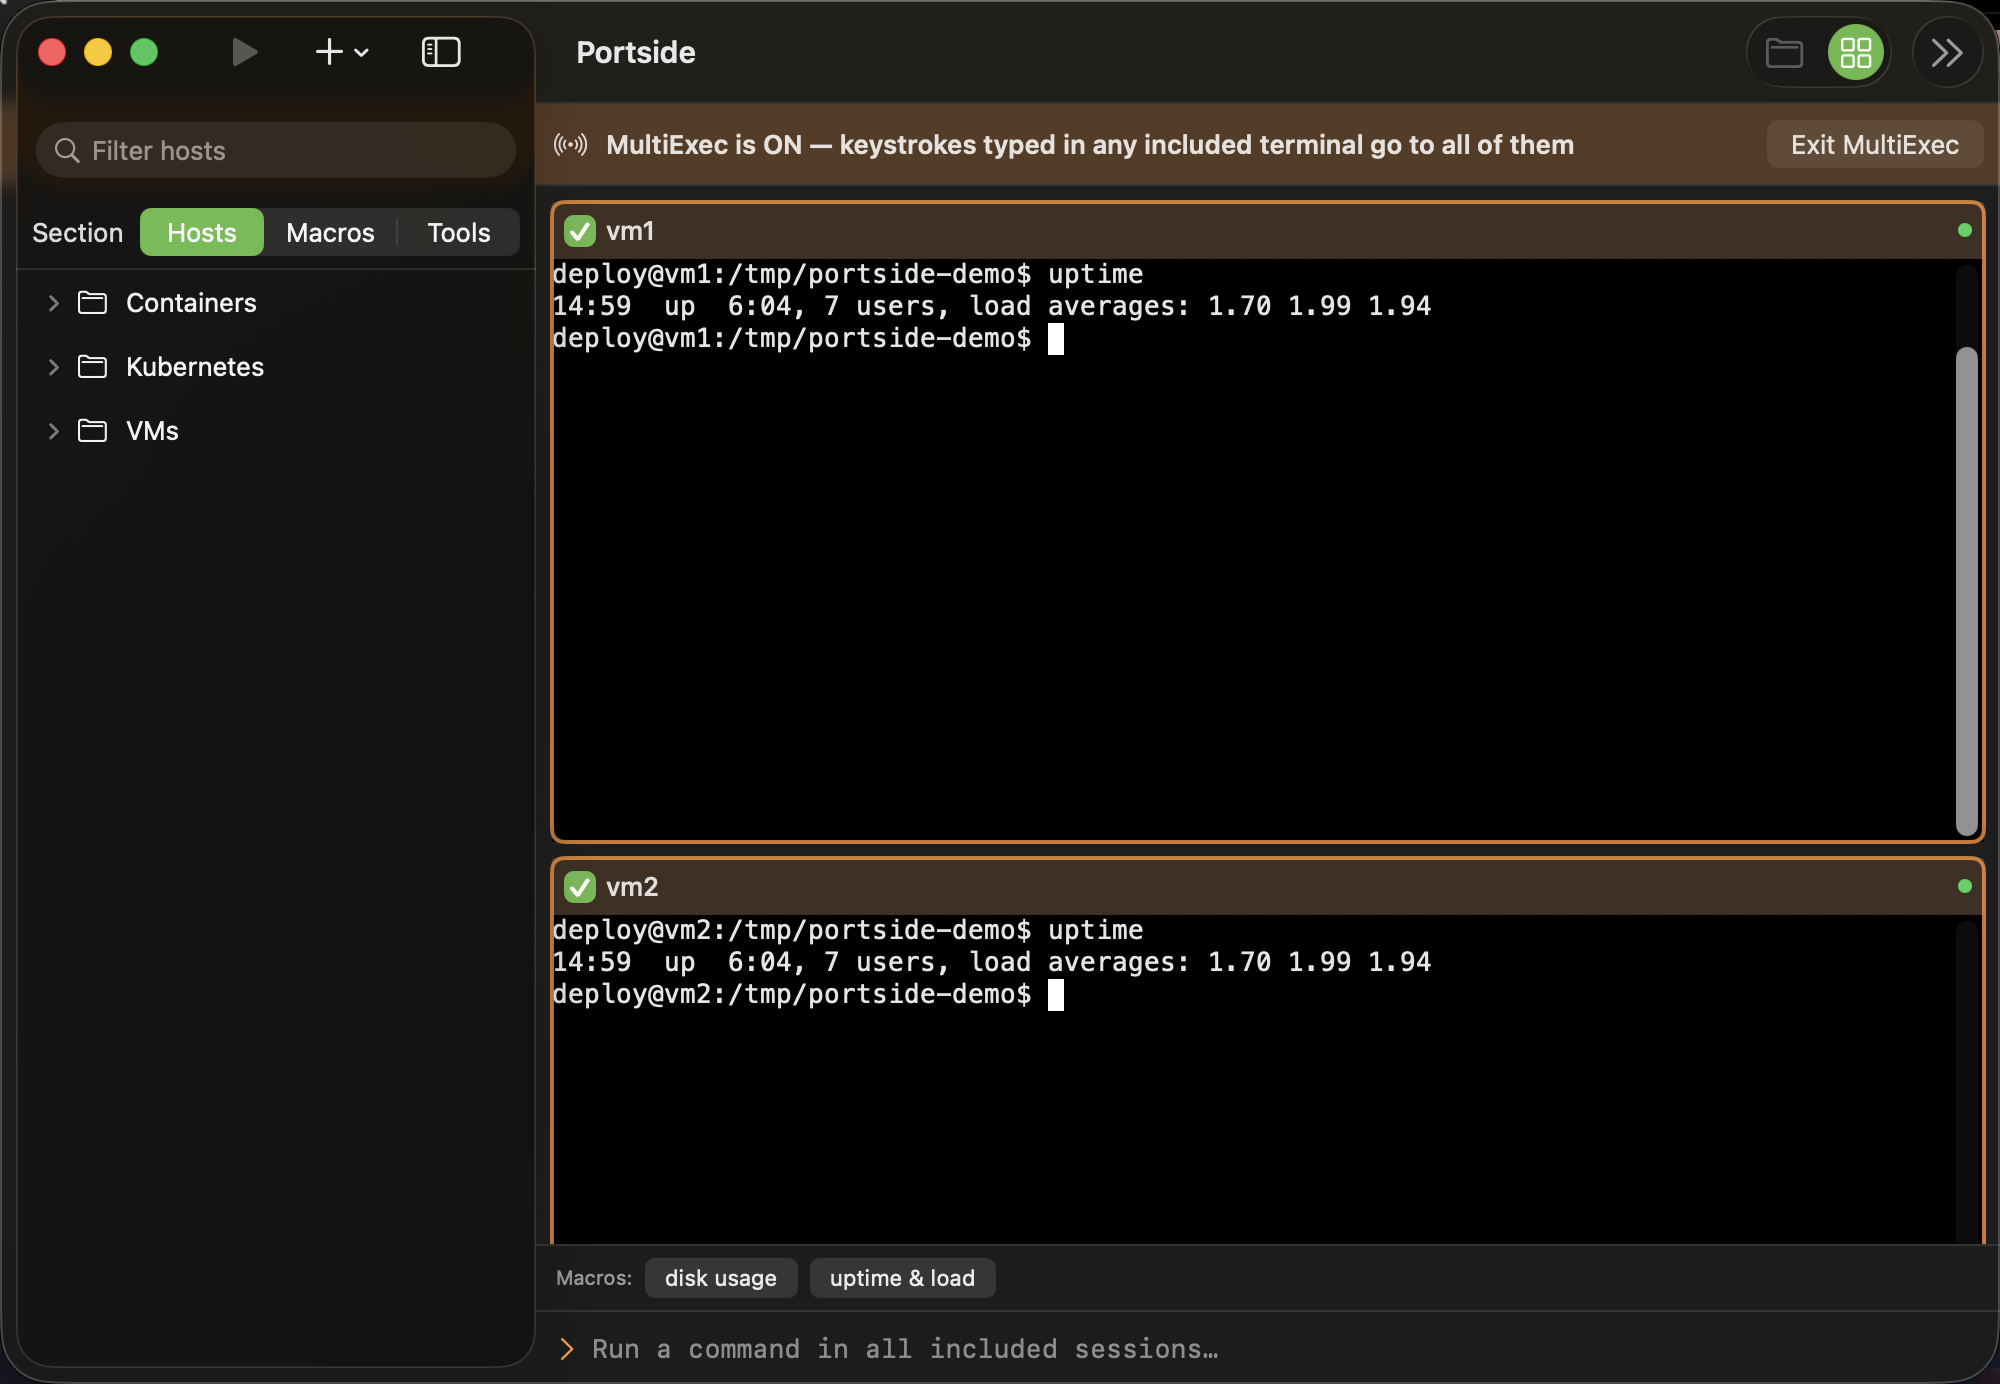
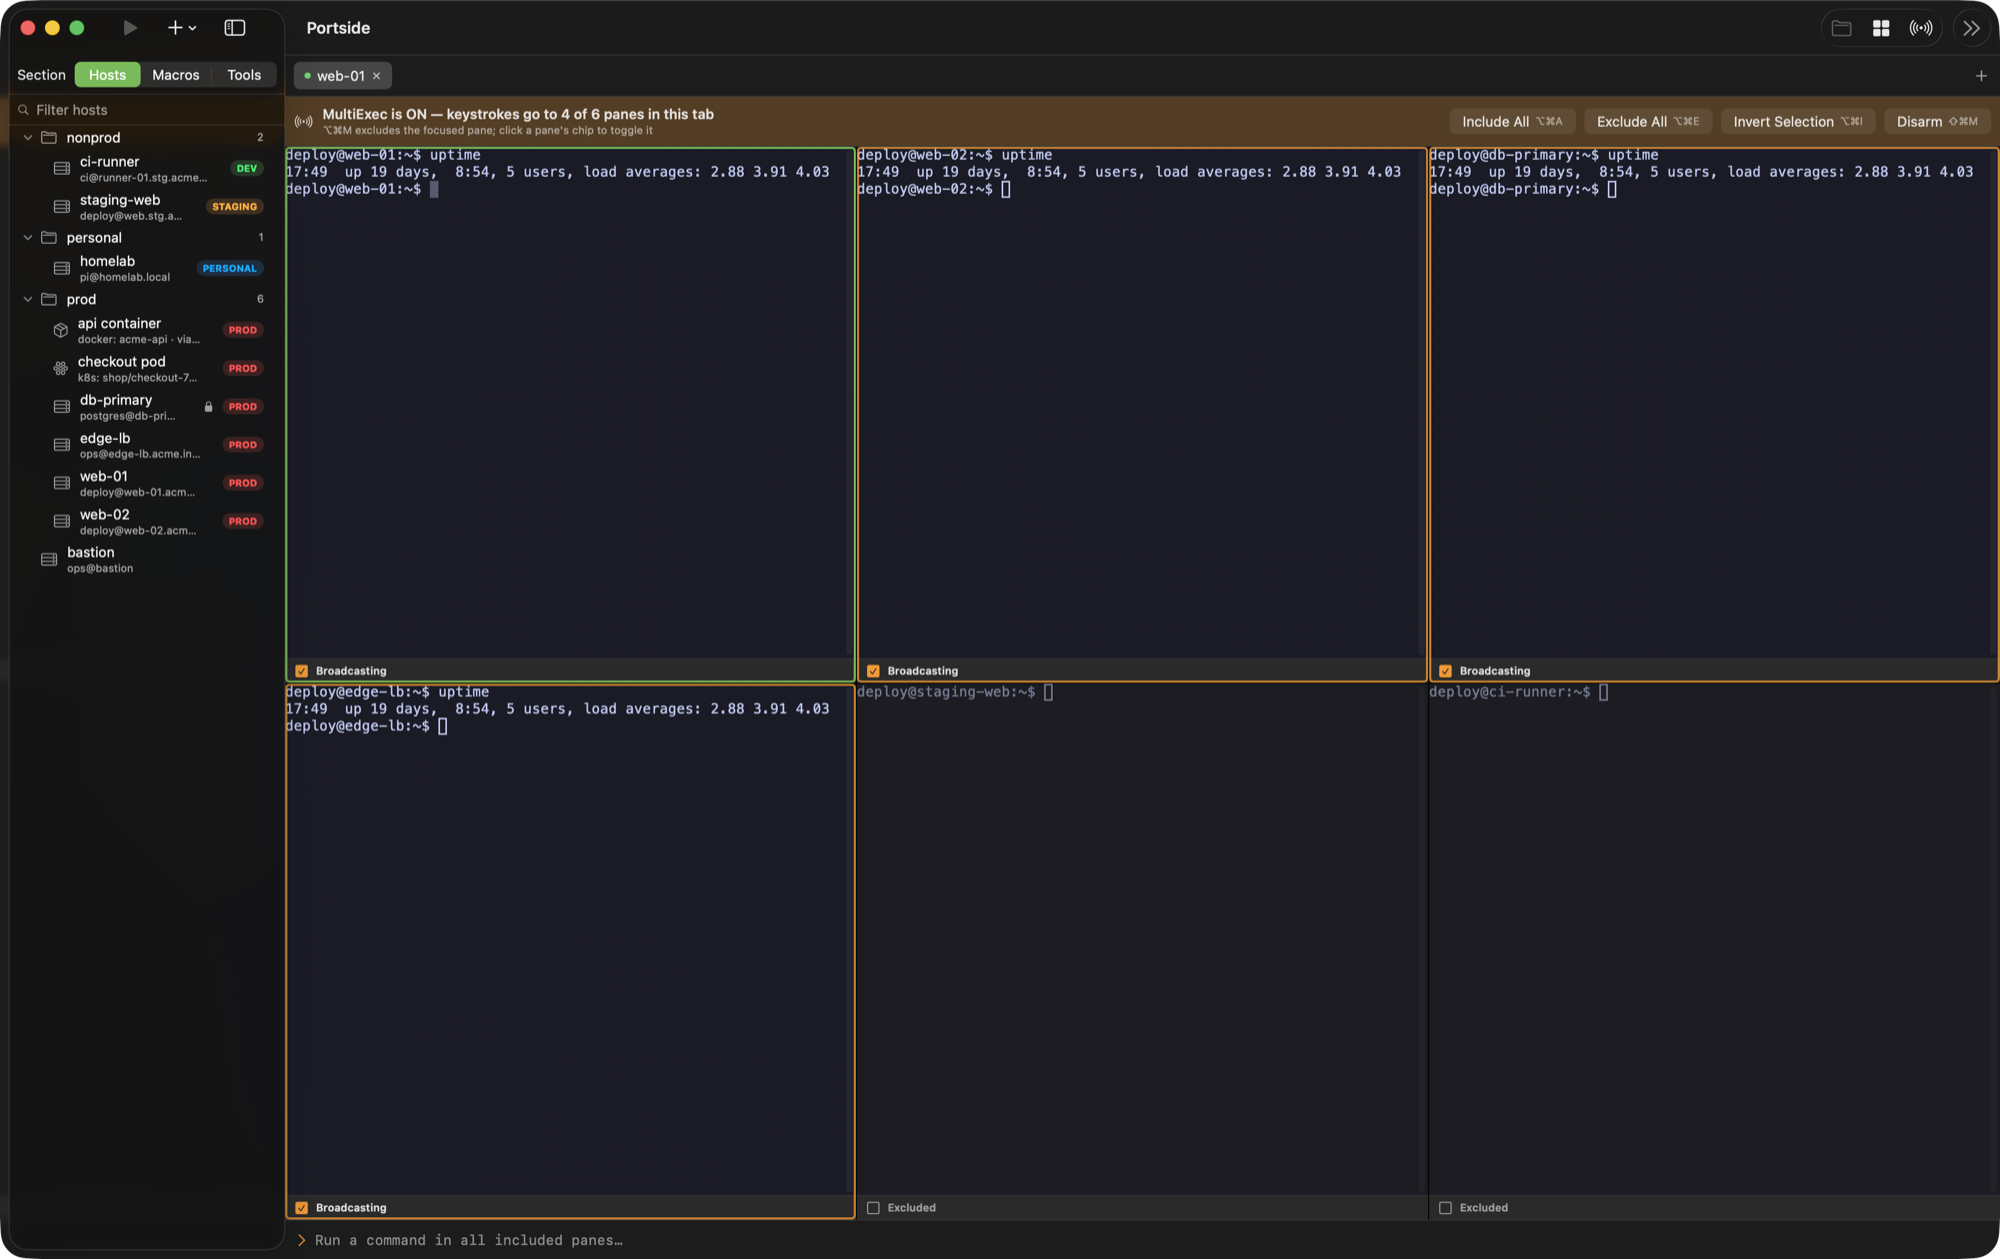
Retake the MultiExec screenshot for the 0.18 UI
The asset dated from July 10 and showed the floating per-pane chips that
0.18.0 replaced — its alt text described them verbatim ("per-terminal
include toggles"). It is the second image in the README, so the front
page was advertising UI that ships nowhere.

Built from Scripts/demo/portside-demo.json for the sidebar (acme.internal
placeholders, environment badges, the protected-host lock) and local
shells for the panes, so no real host appears. Each shell runs
`bash --noprofile --norc` with a set PS1 and an OSC 0 title, which is
also why the prompts are stable: the interactive zsh config would
overwrite PS1 on every precmd.

The state is the feature doing its job rather than a static UI tour: six
panes armed, the two nonprod ones excluded, and `uptime` broadcast to the
remaining four — so the excluded panes visibly sit at bare prompts while
the included ones carry output. Window sized so uptime fits on one line;
the narrower width that would have matched some sibling screenshots'
aspect wrapped it, and the family already varies from 1.14 to 2.5.

diff --git a/README.md b/README.md
@@ -36,9 +36,9 @@ aren't supported. If that matters to you, please open an issue.
 
 *Real terminal tabs over the OpenSSH you already have configured — keys, agent, and `ProxyJump` chains included.*
 
-![MultiExec broadcasting the same command to two hosts at once, with a safety banner and per-terminal include toggles](docs/screenshots/multiexec.png)
+![MultiExec broadcasting uptime to four of six panes; the two nonprod panes are excluded and dimmed, each pane carries a Broadcasting or Excluded status bar, and the banner offers Include All, Exclude All and Invert Selection](docs/screenshots/multiexec.png)
 
-*MultiExec broadcasts your keystrokes to every included session — with a loud banner and per-terminal opt-in so you always know what's armed.*
+*MultiExec broadcasts your keystrokes to every included pane — with a loud banner counting what's live. Drop a host out for a single command and put it back (⌥⌘M, or the status bar under any pane) without disarming.*
 
 ![The SFTP file browser riding the same SSH session as the terminal, listing a remote directory](docs/screenshots/sftp.png)
 
